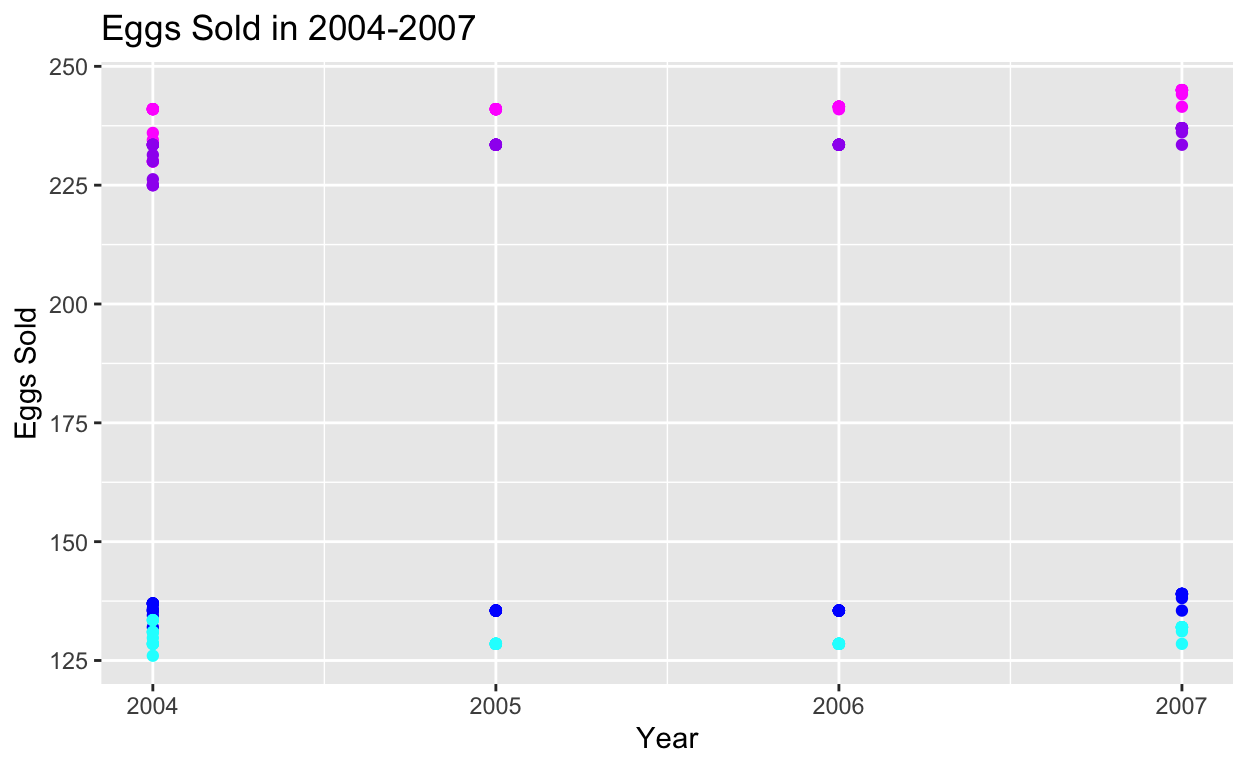
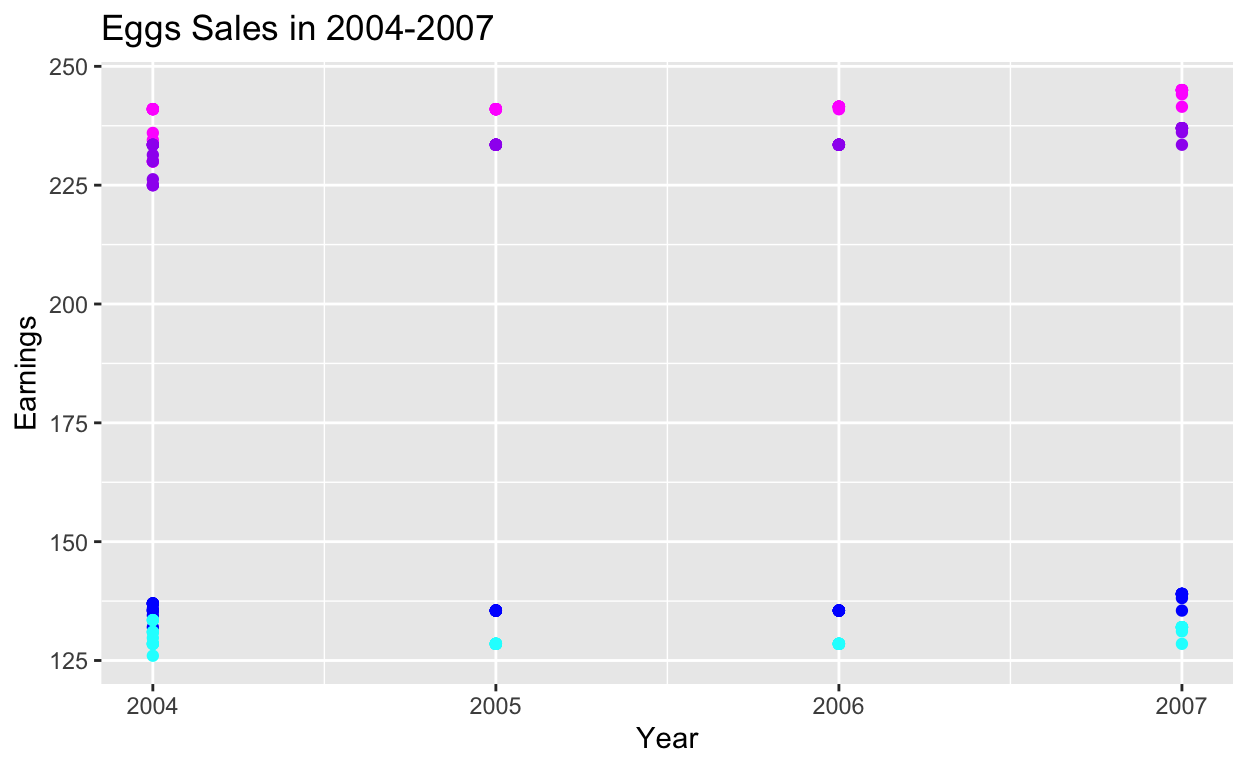
Rhys Long Complete Homework 3

Changed region(s): [[0.1562, 0.0, 0.4062, 0.0625], [0.0, 0.4062, 0.0312, 0.5938]]

diff --git a/_posts/2021-08-18-rhyslongeggs/rhyslongeggs.html b/_posts/2021-08-18-rhyslongeggs/rhyslongeggs.html
@@ -88,7 +88,7 @@ code span.wa { color: #5e5e5e; font-style: italic; } /* Warning */
   <!--radix_placeholder_meta_tags-->
   <title>Rhys_Long_Eggs</title>
 
-  <meta property="description" itemprop="description" content="This is a data set that includes records of how many cartons of eggs were sold every month in 2004-2013. I got this data from the Basic Data sets section of google classroom. This data set contains four variables"/>
+  <meta property="description" itemprop="description" content="This is a data set that includes records of how many cartons of eggs were sold every month in 2004-2013. I got this data from the Basic Data sets section of google classroom. This data set contains four variables."/>
 
 
   <!--  https://schema.org/Article -->
@@ -99,24 +99,24 @@ code span.wa { color: #5e5e5e; font-style: italic; } /* Warning */
   <!--  https://developers.facebook.com/docs/sharing/webmasters#markup -->
   <meta property="og:title" content="Rhys_Long_Eggs"/>
   <meta property="og:type" content="article"/>
-  <meta property="og:description" content="This is a data set that includes records of how many cartons of eggs were sold every month in 2004-2013. I got this data from the Basic Data sets section of google classroom. This data set contains four variables"/>
+  <meta property="og:description" content="This is a data set that includes records of how many cartons of eggs were sold every month in 2004-2013. I got this data from the Basic Data sets section of google classroom. This data set contains four variables."/>
   <meta property="og:locale" content="en_US"/>
 
   <!--  https://dev.twitter.com/cards/types/summary -->
   <meta property="twitter:card" content="summary"/>
   <meta property="twitter:title" content="Rhys_Long_Eggs"/>
-  <meta property="twitter:description" content="This is a data set that includes records of how many cartons of eggs were sold every month in 2004-2013. I got this data from the Basic Data sets section of google classroom. This data set contains four variables"/>
+  <meta property="twitter:description" content="This is a data set that includes records of how many cartons of eggs were sold every month in 2004-2013. I got this data from the Basic Data sets section of google classroom. This data set contains four variables."/>
 
   <!--/radix_placeholder_meta_tags-->
   <!--radix_placeholder_rmarkdown_metadata-->
 
   <script type="text/json" id="radix-rmarkdown-metadata">
-  {"type":"list","attributes":{"names":{"type":"character","attributes":{},"value":["title","description","author","date","output","draft"]}},"value":[{"type":"character","attributes":{},"value":["Rhys_Long_Eggs"]},{"type":"character","attributes":{},"value":["This is a data set that includes records of how many cartons of eggs were sold every month in 2004-2013. I got this data from the Basic Data sets section of google classroom. This data set contains four variables\n"]},{"type":"list","attributes":{},"value":[{"type":"list","attributes":{"names":{"type":"character","attributes":{},"value":["name"]}},"value":[{"type":"character","attributes":{},"value":["Rhys Long"]}]}]},{"type":"character","attributes":{},"value":["08-11-2021"]},{"type":"list","attributes":{"names":{"type":"character","attributes":{},"value":["distill::distill_article"]}},"value":[{"type":"list","attributes":{"names":{"type":"character","attributes":{},"value":["self_contained"]}},"value":[{"type":"logical","attributes":{},"value":[false]}]}]},{"type":"logical","attributes":{},"value":[true]}]}
+  {"type":"list","attributes":{"names":{"type":"character","attributes":{},"value":["title","description","author","date","output","draft"]}},"value":[{"type":"character","attributes":{},"value":["Rhys_Long_Eggs"]},{"type":"character","attributes":{},"value":["This is a data set that includes records of how many cartons of eggs were sold every month in 2004-2013. I got this data from the Basic Data sets section of google classroom. This data set contains four variables.\n"]},{"type":"list","attributes":{},"value":[{"type":"list","attributes":{"names":{"type":"character","attributes":{},"value":["name"]}},"value":[{"type":"character","attributes":{},"value":["Rhys Long"]}]}]},{"type":"character","attributes":{},"value":["08-11-2021"]},{"type":"list","attributes":{"names":{"type":"character","attributes":{},"value":["distill::distill_article"]}},"value":[{"type":"list","attributes":{"names":{"type":"character","attributes":{},"value":["self_contained"]}},"value":[{"type":"logical","attributes":{},"value":[false]}]}]},{"type":"logical","attributes":{},"value":[true]}]}
   </script>
   <!--/radix_placeholder_rmarkdown_metadata-->
   
   <script type="text/json" id="radix-resource-manifest">
-  {"type":"character","attributes":{},"value":["rhyslongeggs_files/figure-html5/unnamed-chunk-1-1.png","rhyslongeggs_files/figure-html5/unnamed-chunk-2-1.png"]}
+  {"type":"character","attributes":{},"value":["rhyslongeggs_files/anchor-4.2.2/anchor.min.js","rhyslongeggs_files/bowser-1.9.3/bowser.min.js","rhyslongeggs_files/distill-2.2.21/template.v2.js","rhyslongeggs_files/figure-html5/unnamed-chunk-1-1.png","rhyslongeggs_files/figure-html5/unnamed-chunk-2-1.png","rhyslongeggs_files/figure-html5/unnamed-chunk-3-1.png","rhyslongeggs_files/figure-html5/unnamed-chunk-4-1.png","rhyslongeggs_files/figure-html5/unnamed-chunk-5-1.png","rhyslongeggs_files/figure-html5/unnamed-chunk-6-1.png","rhyslongeggs_files/figure-html5/unnamed-chunk-7-1.png","rhyslongeggs_files/figure-html5/unnamed-chunk-8-1.png","rhyslongeggs_files/header-attrs-2.10/header-attrs.js","rhyslongeggs_files/jquery-1.11.3/jquery.min.js","rhyslongeggs_files/popper-2.6.0/popper.min.js","rhyslongeggs_files/tippy-6.2.7/tippy-bundle.umd.min.js","rhyslongeggs_files/tippy-6.2.7/tippy-light-border.css","rhyslongeggs_files/tippy-6.2.7/tippy.css","rhyslongeggs_files/tippy-6.2.7/tippy.umd.min.js","rhyslongeggs_files/webcomponents-2.0.0/webcomponents.js"]}
   </script>
   <!--radix_placeholder_navigation_in_header-->
   <!--/radix_placeholder_navigation_in_header-->
@@ -1455,7 +1455,7 @@ code span.wa { color: #5e5e5e; font-style: italic; } /* Warning */
 <!--radix_placeholder_front_matter-->
 
 <script id="distill-front-matter" type="text/json">
-{"title":"Rhys_Long_Eggs","description":"This is a data set that includes records of how many cartons of eggs were sold every month in 2004-2013. I got this data from the Basic Data sets section of google classroom. This data set contains four variables","authors":[{"author":"Rhys Long","authorURL":"#","affiliation":"&nbsp;","affiliationURL":"#","orcidID":""}],"publishedDate":"2021-08-11T00:00:00.000+00:00","citationText":"Long, 2021"}
+{"title":"Rhys_Long_Eggs","description":"This is a data set that includes records of how many cartons of eggs were sold every month in 2004-2013. I got this data from the Basic Data sets section of google classroom. This data set contains four variables.","authors":[{"author":"Rhys Long","authorURL":"#","affiliation":"&nbsp;","affiliationURL":"#","orcidID":""}],"publishedDate":"2021-08-11T00:00:00.000+00:00","citationText":"Long, 2021"}
 </script>
 
 <!--/radix_placeholder_front_matter-->
@@ -1468,7 +1468,7 @@ code span.wa { color: #5e5e5e; font-style: italic; } /* Warning */
 <h1>Rhys_Long_Eggs</h1>
 <!--radix_placeholder_categories-->
 <!--/radix_placeholder_categories-->
-<p><p>This is a data set that includes records of how many cartons of eggs were sold every month in 2004-2013. I got this data from the Basic Data sets section of google classroom. This data set contains four variables</p></p>
+<p><p>This is a data set that includes records of how many cartons of eggs were sold every month in 2004-2013. I got this data from the Basic Data sets section of google classroom. This data set contains four variables.</p></p>
 </div>
 
 <div class="d-byline">
@@ -1479,12 +1479,13 @@ code span.wa { color: #5e5e5e; font-style: italic; } /* Warning */
 </div>
 
 <div class="d-article">
-<p>Part 1: Full Data Set</p>
+<p>Part 1: Full Dataset</p>
 <div class="layout-chunk" data-layout="l-body">
 <div class="sourceCode">
 <pre class="sourceCode r"><code class="sourceCode r"><span class='kw'><a href='https://rdrr.io/r/base/library.html'>library</a></span><span class='op'>(</span><span class='va'><a href='https://tidyverse.tidyverse.org'>tidyverse</a></span><span class='op'>)</span>
+<span class='kw'><a href='https://rdrr.io/r/base/library.html'>library</a></span><span class='op'>(</span><span class='va'><a href='https://ggplot2.tidyverse.org'>ggplot2</a></span><span class='op'>)</span>
 <span class='va'>eggs_data</span> <span class='op'>&lt;-</span> <span class='fu'><a href='https://rdrr.io/r/utils/read.table.html'>read.csv</a></span><span class='op'>(</span>file <span class='op'>=</span> <span class='st'>"../../_data/eggs_tidy.csv"</span><span class='op'>)</span>
-<span class='fu'>as.tibble</span><span class='op'>(</span><span class='va'>eggs_data</span><span class='op'>)</span>
+<span class='fu'>tibble</span><span class='op'>(</span><span class='va'>eggs_data</span><span class='op'>)</span>
 </code></pre>
 </div>
 <pre><code># A tibble: 120 × 6
@@ -1502,18 +1503,17 @@ code span.wa { color: #5e5e5e; font-style: italic; } /* Warning */
 10 October    2004             128.        234.                   136.
 # … with 110 more rows, and 1 more variable: extra_large_dozen &lt;dbl&gt;</code></pre>
 <div class="sourceCode">
-<pre class="sourceCode r"><code class="sourceCode r"><span class='kw'><a href='https://rdrr.io/r/base/library.html'>library</a></span><span class='op'>(</span><span class='va'><a href='https://ggplot2.tidyverse.org'>ggplot2</a></span><span class='op'>)</span>
-<span class='fu'><a href='https://ggplot2.tidyverse.org/reference/ggplot.html'>ggplot</a></span><span class='op'>(</span>data <span class='op'>=</span> <span class='va'>eggs_data</span>, <span class='fu'><a href='https://ggplot2.tidyverse.org/reference/aes.html'>aes</a></span><span class='op'>(</span><span class='va'>year</span><span class='op'>)</span><span class='op'>)</span> <span class='op'>+</span>
+<pre class="sourceCode r"><code class="sourceCode r"><span class='fu'><a href='https://ggplot2.tidyverse.org/reference/ggplot.html'>ggplot</a></span><span class='op'>(</span>data <span class='op'>=</span> <span class='va'>eggs_data</span>, <span class='fu'><a href='https://ggplot2.tidyverse.org/reference/aes.html'>aes</a></span><span class='op'>(</span><span class='va'>year</span><span class='op'>)</span><span class='op'>)</span> <span class='op'>+</span>
   <span class='fu'><a href='https://ggplot2.tidyverse.org/reference/geom_point.html'>geom_point</a></span><span class='op'>(</span>mapping <span class='op'>=</span> <span class='fu'><a href='https://ggplot2.tidyverse.org/reference/aes.html'>aes</a></span><span class='op'>(</span>y<span class='op'>=</span><span class='va'>extra_large_dozen</span><span class='op'>)</span>, color <span class='op'>=</span> <span class='st'>'magenta'</span><span class='op'>)</span> <span class='op'>+</span>
   <span class='fu'><a href='https://ggplot2.tidyverse.org/reference/geom_point.html'>geom_point</a></span><span class='op'>(</span>mapping <span class='op'>=</span> <span class='fu'><a href='https://ggplot2.tidyverse.org/reference/aes.html'>aes</a></span><span class='op'>(</span>y<span class='op'>=</span><span class='va'>large_dozen</span><span class='op'>)</span>, color <span class='op'>=</span> <span class='st'>'purple'</span><span class='op'>)</span> <span class='op'>+</span>
   <span class='fu'><a href='https://ggplot2.tidyverse.org/reference/geom_point.html'>geom_point</a></span><span class='op'>(</span>mapping <span class='op'>=</span> <span class='fu'><a href='https://ggplot2.tidyverse.org/reference/aes.html'>aes</a></span><span class='op'>(</span>y<span class='op'>=</span><span class='va'>extra_large_half_dozen</span><span class='op'>)</span>, color <span class='op'>=</span> <span class='st'>'blue'</span><span class='op'>)</span> <span class='op'>+</span>
   <span class='fu'><a href='https://ggplot2.tidyverse.org/reference/geom_point.html'>geom_point</a></span><span class='op'>(</span>mapping <span class='op'>=</span> <span class='fu'><a href='https://ggplot2.tidyverse.org/reference/aes.html'>aes</a></span><span class='op'>(</span>y<span class='op'>=</span><span class='va'>large_half_dozen</span><span class='op'>)</span>, color <span class='op'>=</span> <span class='st'>'cyan'</span><span class='op'>)</span> <span class='op'>+</span>
-  <span class='fu'><a href='https://ggplot2.tidyverse.org/reference/labs.html'>labs</a></span><span class='op'>(</span>title<span class='op'>=</span><span class='st'>"Eggs Sold in 2004-2013"</span>, y<span class='op'>=</span><span class='st'>"Eggs Sold"</span>, x<span class='op'>=</span><span class='st'>"Year"</span><span class='op'>)</span>
+  <span class='fu'><a href='https://ggplot2.tidyverse.org/reference/labs.html'>labs</a></span><span class='op'>(</span>title<span class='op'>=</span><span class='st'>"Eggs Sales in 2004-2013"</span>, y<span class='op'>=</span><span class='st'>"Eggs Sold"</span>, x<span class='op'>=</span><span class='st'>"Year"</span><span class='op'>)</span>
 </code></pre>
 </div>
 <p><img src="rhyslongeggs_files/figure-html5/unnamed-chunk-1-1.png" width="624" /></p>
 </div>
-<p>Part 2: Using Filter And Summarize To Show How Sales Changed Over Time</p>
+<p>Part 2: Using Filter And Summarize</p>
 <div class="layout-chunk" data-layout="l-body">
 <div class="sourceCode">
 <pre class="sourceCode r"><code class="sourceCode r"><span class='va'>first_third</span> <span class='op'>&lt;-</span> <span class='fu'><a href='https://rdrr.io/r/stats/filter.html'>filter</a></span><span class='op'>(</span><span class='va'>eggs_data</span>, <span class='va'>year</span> <span class='op'>&lt;=</span> <span class='fl'>2007</span><span class='op'>)</span>
@@ -1522,7 +1522,7 @@ code span.wa { color: #5e5e5e; font-style: italic; } /* Warning */
   <span class='fu'><a href='https://ggplot2.tidyverse.org/reference/geom_point.html'>geom_point</a></span><span class='op'>(</span>mapping <span class='op'>=</span> <span class='fu'><a href='https://ggplot2.tidyverse.org/reference/aes.html'>aes</a></span><span class='op'>(</span>y<span class='op'>=</span><span class='va'>large_dozen</span><span class='op'>)</span>, color <span class='op'>=</span> <span class='st'>'purple'</span><span class='op'>)</span> <span class='op'>+</span>
   <span class='fu'><a href='https://ggplot2.tidyverse.org/reference/geom_point.html'>geom_point</a></span><span class='op'>(</span>mapping <span class='op'>=</span> <span class='fu'><a href='https://ggplot2.tidyverse.org/reference/aes.html'>aes</a></span><span class='op'>(</span>y<span class='op'>=</span><span class='va'>extra_large_half_dozen</span><span class='op'>)</span>, color <span class='op'>=</span> <span class='st'>'blue'</span><span class='op'>)</span> <span class='op'>+</span>
   <span class='fu'><a href='https://ggplot2.tidyverse.org/reference/geom_point.html'>geom_point</a></span><span class='op'>(</span>mapping <span class='op'>=</span> <span class='fu'><a href='https://ggplot2.tidyverse.org/reference/aes.html'>aes</a></span><span class='op'>(</span>y<span class='op'>=</span><span class='va'>large_half_dozen</span><span class='op'>)</span>, color <span class='op'>=</span> <span class='st'>'cyan'</span><span class='op'>)</span> <span class='op'>+</span>
-  <span class='fu'><a href='https://ggplot2.tidyverse.org/reference/labs.html'>labs</a></span><span class='op'>(</span>title<span class='op'>=</span><span class='st'>"Eggs Sold in 2004-2007"</span>, y<span class='op'>=</span><span class='st'>"Eggs Sold"</span>, x<span class='op'>=</span><span class='st'>"Year"</span><span class='op'>)</span>
+  <span class='fu'><a href='https://ggplot2.tidyverse.org/reference/labs.html'>labs</a></span><span class='op'>(</span>title<span class='op'>=</span><span class='st'>"Eggs Sales in 2004-2007"</span>, y<span class='op'>=</span><span class='st'>"Earnings"</span>, x<span class='op'>=</span><span class='st'>"Year"</span><span class='op'>)</span>
 </code></pre>
 </div>
 <img src="rhyslongeggs_files/figure-html5/unnamed-chunk-2-1.png" width="624" />
@@ -1559,7 +1559,238 @@ code span.wa { color: #5e5e5e; font-style: italic; } /* Warning */
   median(large_half_dozen) mean(large_half_dozen)
 1                    128.5               129.7266</code></pre>
 </div>
-<div class="sourceCode" id="cb6"><pre class="sourceCode r distill-force-highlighting-css"><code class="sourceCode r"></code></pre></div>
+<div class="layout-chunk" data-layout="l-body">
+<div class="sourceCode">
+<pre class="sourceCode r"><code class="sourceCode r"><span class='va'>middle_third</span> <span class='op'>&lt;-</span> <span class='fu'><a href='https://rdrr.io/r/stats/filter.html'>filter</a></span><span class='op'>(</span><span class='va'>eggs_data</span>, <span class='va'>year</span> <span class='op'>&gt;=</span> <span class='fl'>2007</span> <span class='op'>&amp;</span> <span class='va'>year</span> <span class='op'>&lt;=</span><span class='fl'>2010</span><span class='op'>)</span>
+<span class='fu'><a href='https://ggplot2.tidyverse.org/reference/ggplot.html'>ggplot</a></span><span class='op'>(</span>data <span class='op'>=</span> <span class='va'>middle_third</span>, <span class='fu'><a href='https://ggplot2.tidyverse.org/reference/aes.html'>aes</a></span><span class='op'>(</span><span class='va'>year</span><span class='op'>)</span><span class='op'>)</span> <span class='op'>+</span>
+  <span class='fu'><a href='https://ggplot2.tidyverse.org/reference/geom_point.html'>geom_point</a></span><span class='op'>(</span>mapping <span class='op'>=</span> <span class='fu'><a href='https://ggplot2.tidyverse.org/reference/aes.html'>aes</a></span><span class='op'>(</span>y<span class='op'>=</span><span class='va'>extra_large_dozen</span><span class='op'>)</span>, color <span class='op'>=</span> <span class='st'>'magenta'</span><span class='op'>)</span> <span class='op'>+</span>
+  <span class='fu'><a href='https://ggplot2.tidyverse.org/reference/geom_point.html'>geom_point</a></span><span class='op'>(</span>mapping <span class='op'>=</span> <span class='fu'><a href='https://ggplot2.tidyverse.org/reference/aes.html'>aes</a></span><span class='op'>(</span>y<span class='op'>=</span><span class='va'>large_dozen</span><span class='op'>)</span>, color <span class='op'>=</span> <span class='st'>'purple'</span><span class='op'>)</span> <span class='op'>+</span>
+  <span class='fu'><a href='https://ggplot2.tidyverse.org/reference/geom_point.html'>geom_point</a></span><span class='op'>(</span>mapping <span class='op'>=</span> <span class='fu'><a href='https://ggplot2.tidyverse.org/reference/aes.html'>aes</a></span><span class='op'>(</span>y<span class='op'>=</span><span class='va'>extra_large_half_dozen</span><span class='op'>)</span>, color <span class='op'>=</span> <span class='st'>'blue'</span><span class='op'>)</span> <span class='op'>+</span>
+  <span class='fu'><a href='https://ggplot2.tidyverse.org/reference/geom_point.html'>geom_point</a></span><span class='op'>(</span>mapping <span class='op'>=</span> <span class='fu'><a href='https://ggplot2.tidyverse.org/reference/aes.html'>aes</a></span><span class='op'>(</span>y<span class='op'>=</span><span class='va'>large_half_dozen</span><span class='op'>)</span>, color <span class='op'>=</span> <span class='st'>'cyan'</span><span class='op'>)</span> <span class='op'>+</span>
+  <span class='fu'><a href='https://ggplot2.tidyverse.org/reference/labs.html'>labs</a></span><span class='op'>(</span>title<span class='op'>=</span><span class='st'>"Eggs Sales in 2007-2010"</span>, y<span class='op'>=</span><span class='st'>"Earnings"</span>, x<span class='op'>=</span><span class='st'>"Year"</span><span class='op'>)</span>
+</code></pre>
+</div>
+<img src="rhyslongeggs_files/figure-html5/unnamed-chunk-3-1.png" width="624" />
+<div class="sourceCode">
+<pre class="sourceCode r"><code class="sourceCode r"><span class='fu'>summarize</span><span class='op'>(</span><span class='va'>middle_third</span>, <span class='fu'><a href='https://rdrr.io/r/base/Extremes.html'>max</a></span><span class='op'>(</span><span class='va'>extra_large_dozen</span><span class='op'>)</span>, <span class='fu'><a href='https://rdrr.io/r/base/Extremes.html'>min</a></span><span class='op'>(</span><span class='va'>extra_large_dozen</span><span class='op'>)</span>, <span class='fu'><a href='https://rdrr.io/r/stats/median.html'>median</a></span><span class='op'>(</span><span class='va'>extra_large_dozen</span><span class='op'>)</span>, <span class='fu'><a href='https://rdrr.io/r/base/mean.html'>mean</a></span><span class='op'>(</span><span class='va'>extra_large_dozen</span><span class='op'>)</span><span class='op'>)</span>
+</code></pre>
+</div>
+<pre><code>  max(extra_large_dozen) min(extra_large_dozen)
+1                  285.5                  241.5
+  median(extra_large_dozen) mean(extra_large_dozen)
+1                     285.5                271.0651</code></pre>
+<div class="sourceCode">
+<pre class="sourceCode r"><code class="sourceCode r"><span class='fu'>summarize</span><span class='op'>(</span><span class='va'>middle_third</span>, <span class='fu'><a href='https://rdrr.io/r/base/Extremes.html'>max</a></span><span class='op'>(</span><span class='va'>large_dozen</span><span class='op'>)</span>, <span class='fu'><a href='https://rdrr.io/r/base/Extremes.html'>min</a></span><span class='op'>(</span><span class='va'>large_dozen</span><span class='op'>)</span>, <span class='fu'><a href='https://rdrr.io/r/stats/median.html'>median</a></span><span class='op'>(</span><span class='va'>large_dozen</span><span class='op'>)</span>, <span class='fu'><a href='https://rdrr.io/r/base/mean.html'>mean</a></span><span class='op'>(</span><span class='va'>large_dozen</span><span class='op'>)</span><span class='op'>)</span>
+</code></pre>
+</div>
+<pre><code>  max(large_dozen) min(large_dozen) median(large_dozen)
+1            277.5            233.5                 268
+  mean(large_dozen)
+1          260.1797</code></pre>
+<div class="sourceCode">
+<pre class="sourceCode r"><code class="sourceCode r"><span class='fu'>summarize</span><span class='op'>(</span><span class='va'>middle_third</span>, <span class='fu'><a href='https://rdrr.io/r/base/Extremes.html'>max</a></span><span class='op'>(</span><span class='va'>extra_large_half_dozen</span><span class='op'>)</span>, <span class='fu'><a href='https://rdrr.io/r/base/Extremes.html'>min</a></span><span class='op'>(</span><span class='va'>extra_large_half_dozen</span><span class='op'>)</span>, <span class='fu'><a href='https://rdrr.io/r/stats/median.html'>median</a></span><span class='op'>(</span><span class='va'>extra_large_half_dozen</span><span class='op'>)</span>, <span class='fu'><a href='https://rdrr.io/r/base/mean.html'>mean</a></span><span class='op'>(</span><span class='va'>extra_large_half_dozen</span><span class='op'>)</span><span class='op'>)</span>
+</code></pre>
+</div>
+<pre><code>  max(extra_large_half_dozen) min(extra_large_half_dozen)
+1                       185.5                       135.5
+  median(extra_large_half_dozen) mean(extra_large_half_dozen)
+1                          185.5                     168.9401</code></pre>
+<div class="sourceCode">
+<pre class="sourceCode r"><code class="sourceCode r"><span class='fu'>summarize</span><span class='op'>(</span><span class='va'>middle_third</span>, <span class='fu'><a href='https://rdrr.io/r/base/Extremes.html'>max</a></span><span class='op'>(</span><span class='va'>large_half_dozen</span><span class='op'>)</span>, <span class='fu'><a href='https://rdrr.io/r/base/Extremes.html'>min</a></span><span class='op'>(</span><span class='va'>large_half_dozen</span><span class='op'>)</span>, <span class='fu'><a href='https://rdrr.io/r/stats/median.html'>median</a></span><span class='op'>(</span><span class='va'>large_half_dozen</span><span class='op'>)</span>, <span class='fu'><a href='https://rdrr.io/r/base/mean.html'>mean</a></span><span class='op'>(</span><span class='va'>large_half_dozen</span><span class='op'>)</span><span class='op'>)</span>
+</code></pre>
+</div>
+<pre><code>  max(large_half_dozen) min(large_half_dozen)
+1                 174.5                 128.5
+  median(large_half_dozen) mean(large_half_dozen)
+1                    174.5               159.3568</code></pre>
+</div>
+<div class="layout-chunk" data-layout="l-body">
+<div class="sourceCode">
+<pre class="sourceCode r"><code class="sourceCode r"><span class='va'>final_third</span> <span class='op'>&lt;-</span> <span class='fu'><a href='https://rdrr.io/r/stats/filter.html'>filter</a></span><span class='op'>(</span><span class='va'>eggs_data</span>, <span class='va'>year</span> <span class='op'>&gt;=</span><span class='fl'>2010</span><span class='op'>)</span>
+<span class='fu'><a href='https://ggplot2.tidyverse.org/reference/ggplot.html'>ggplot</a></span><span class='op'>(</span>data <span class='op'>=</span> <span class='va'>final_third</span>, <span class='fu'><a href='https://ggplot2.tidyverse.org/reference/aes.html'>aes</a></span><span class='op'>(</span><span class='va'>year</span><span class='op'>)</span><span class='op'>)</span> <span class='op'>+</span>
+  <span class='fu'><a href='https://ggplot2.tidyverse.org/reference/geom_point.html'>geom_point</a></span><span class='op'>(</span>mapping <span class='op'>=</span> <span class='fu'><a href='https://ggplot2.tidyverse.org/reference/aes.html'>aes</a></span><span class='op'>(</span>y<span class='op'>=</span><span class='va'>extra_large_dozen</span><span class='op'>)</span>, color <span class='op'>=</span> <span class='st'>'magenta'</span><span class='op'>)</span> <span class='op'>+</span>
+  <span class='fu'><a href='https://ggplot2.tidyverse.org/reference/geom_point.html'>geom_point</a></span><span class='op'>(</span>mapping <span class='op'>=</span> <span class='fu'><a href='https://ggplot2.tidyverse.org/reference/aes.html'>aes</a></span><span class='op'>(</span>y<span class='op'>=</span><span class='va'>large_dozen</span><span class='op'>)</span>, color <span class='op'>=</span> <span class='st'>'purple'</span><span class='op'>)</span> <span class='op'>+</span>
+  <span class='fu'><a href='https://ggplot2.tidyverse.org/reference/geom_point.html'>geom_point</a></span><span class='op'>(</span>mapping <span class='op'>=</span> <span class='fu'><a href='https://ggplot2.tidyverse.org/reference/aes.html'>aes</a></span><span class='op'>(</span>y<span class='op'>=</span><span class='va'>extra_large_half_dozen</span><span class='op'>)</span>, color <span class='op'>=</span> <span class='st'>'blue'</span><span class='op'>)</span> <span class='op'>+</span>
+  <span class='fu'><a href='https://ggplot2.tidyverse.org/reference/geom_point.html'>geom_point</a></span><span class='op'>(</span>mapping <span class='op'>=</span> <span class='fu'><a href='https://ggplot2.tidyverse.org/reference/aes.html'>aes</a></span><span class='op'>(</span>y<span class='op'>=</span><span class='va'>large_half_dozen</span><span class='op'>)</span>, color <span class='op'>=</span> <span class='st'>'cyan'</span><span class='op'>)</span> <span class='op'>+</span>
+  <span class='fu'><a href='https://ggplot2.tidyverse.org/reference/labs.html'>labs</a></span><span class='op'>(</span>title<span class='op'>=</span><span class='st'>"Eggs Sales in 2010-2013"</span>, y<span class='op'>=</span><span class='st'>"Earnings"</span>, x<span class='op'>=</span><span class='st'>"Year"</span><span class='op'>)</span>
+</code></pre>
+</div>
+<img src="rhyslongeggs_files/figure-html5/unnamed-chunk-4-1.png" width="624" />
+<div class="sourceCode">
+<pre class="sourceCode r"><code class="sourceCode r"><span class='fu'>summarize</span><span class='op'>(</span><span class='va'>final_third</span>, <span class='fu'><a href='https://rdrr.io/r/base/Extremes.html'>max</a></span><span class='op'>(</span><span class='va'>extra_large_dozen</span><span class='op'>)</span>, <span class='fu'><a href='https://rdrr.io/r/base/Extremes.html'>min</a></span><span class='op'>(</span><span class='va'>extra_large_dozen</span><span class='op'>)</span>, <span class='fu'><a href='https://rdrr.io/r/stats/median.html'>median</a></span><span class='op'>(</span><span class='va'>extra_large_dozen</span><span class='op'>)</span>, <span class='fu'><a href='https://rdrr.io/r/base/mean.html'>mean</a></span><span class='op'>(</span><span class='va'>extra_large_dozen</span><span class='op'>)</span><span class='op'>)</span>
+</code></pre>
+</div>
+<pre><code>  max(extra_large_dozen) min(extra_large_dozen)
+1                    290                  285.5
+  median(extra_large_dozen) mean(extra_large_dozen)
+1                     285.5                 287.375</code></pre>
+<div class="sourceCode">
+<pre class="sourceCode r"><code class="sourceCode r"><span class='fu'>summarize</span><span class='op'>(</span><span class='va'>final_third</span>, <span class='fu'><a href='https://rdrr.io/r/base/Extremes.html'>max</a></span><span class='op'>(</span><span class='va'>large_dozen</span><span class='op'>)</span>, <span class='fu'><a href='https://rdrr.io/r/base/Extremes.html'>min</a></span><span class='op'>(</span><span class='va'>large_dozen</span><span class='op'>)</span>, <span class='fu'><a href='https://rdrr.io/r/stats/median.html'>median</a></span><span class='op'>(</span><span class='va'>large_dozen</span><span class='op'>)</span>, <span class='fu'><a href='https://rdrr.io/r/base/mean.html'>mean</a></span><span class='op'>(</span><span class='va'>large_dozen</span><span class='op'>)</span><span class='op'>)</span>
+</code></pre>
+</div>
+<pre><code>  max(large_dozen) min(large_dozen) median(large_dozen)
+1            271.5            267.5               267.5
+  mean(large_dozen)
+1          268.1042</code></pre>
+<div class="sourceCode">
+<pre class="sourceCode r"><code class="sourceCode r"><span class='fu'>summarize</span><span class='op'>(</span><span class='va'>final_third</span>, <span class='fu'><a href='https://rdrr.io/r/base/Extremes.html'>max</a></span><span class='op'>(</span><span class='va'>extra_large_half_dozen</span><span class='op'>)</span>, <span class='fu'><a href='https://rdrr.io/r/base/Extremes.html'>min</a></span><span class='op'>(</span><span class='va'>extra_large_half_dozen</span><span class='op'>)</span>, <span class='fu'><a href='https://rdrr.io/r/stats/median.html'>median</a></span><span class='op'>(</span><span class='va'>extra_large_half_dozen</span><span class='op'>)</span>, <span class='fu'><a href='https://rdrr.io/r/base/mean.html'>mean</a></span><span class='op'>(</span><span class='va'>extra_large_half_dozen</span><span class='op'>)</span><span class='op'>)</span>
+</code></pre>
+</div>
+<pre><code>  max(extra_large_half_dozen) min(extra_large_half_dozen)
+1                      188.13                       185.5
+  median(extra_large_half_dozen) mean(extra_large_half_dozen)
+1                          185.5                     186.2671</code></pre>
+<div class="sourceCode">
+<pre class="sourceCode r"><code class="sourceCode r"><span class='fu'>summarize</span><span class='op'>(</span><span class='va'>final_third</span>, <span class='fu'><a href='https://rdrr.io/r/base/Extremes.html'>max</a></span><span class='op'>(</span><span class='va'>large_half_dozen</span><span class='op'>)</span>, <span class='fu'><a href='https://rdrr.io/r/base/Extremes.html'>min</a></span><span class='op'>(</span><span class='va'>large_half_dozen</span><span class='op'>)</span>, <span class='fu'><a href='https://rdrr.io/r/stats/median.html'>median</a></span><span class='op'>(</span><span class='va'>large_half_dozen</span><span class='op'>)</span>, <span class='fu'><a href='https://rdrr.io/r/base/mean.html'>mean</a></span><span class='op'>(</span><span class='va'>large_half_dozen</span><span class='op'>)</span><span class='op'>)</span>
+</code></pre>
+</div>
+<pre><code>  max(large_half_dozen) min(large_half_dozen)
+1                   178                173.25
+  median(large_half_dozen) mean(large_half_dozen)
+1                    174.5               175.3646</code></pre>
+</div>
+<p>Part 3: Using Select, Slice, and Arrange</p>
+<div class="layout-chunk" data-layout="l-body">
+<div class="sourceCode">
+<pre class="sourceCode r"><code class="sourceCode r"><span class='va'>eggs_data</span> <span class='op'>%&gt;%</span>
+  <span class='fu'>select</span><span class='op'>(</span><span class='va'>month</span>, <span class='va'>year</span>, <span class='va'>extra_large_dozen</span><span class='op'>)</span> <span class='op'>%&gt;%</span>
+  <span class='fu'>arrange</span><span class='op'>(</span><span class='fu'>desc</span><span class='op'>(</span><span class='va'>extra_large_dozen</span><span class='op'>)</span><span class='op'>)</span> <span class='op'>%&gt;%</span>
+  <span class='fu'>slice</span><span class='op'>(</span><span class='fl'>1</span><span class='op'>:</span><span class='fl'>10</span><span class='op'>)</span>
+</code></pre>
+</div>
+<pre><code>      month year extra_large_dozen
+1  November 2012               290
+2  December 2012               290
+3   January 2013               290
+4  February 2013               290
+5     March 2013               290
+6     April 2013               290
+7       May 2013               290
+8      June 2013               290
+9      July 2013               290
+10   August 2013               290</code></pre>
+<div class="sourceCode">
+<pre class="sourceCode r"><code class="sourceCode r"><span class='fu'><a href='https://ggplot2.tidyverse.org/reference/ggplot.html'>ggplot</a></span><span class='op'>(</span>data <span class='op'>=</span> <span class='va'>eggs_data</span>, <span class='fu'><a href='https://ggplot2.tidyverse.org/reference/aes.html'>aes</a></span><span class='op'>(</span><span class='va'>year</span><span class='op'>)</span><span class='op'>)</span> <span class='op'>+</span>
+  <span class='fu'><a href='https://ggplot2.tidyverse.org/reference/geom_point.html'>geom_point</a></span><span class='op'>(</span>mapping <span class='op'>=</span> <span class='fu'><a href='https://ggplot2.tidyverse.org/reference/aes.html'>aes</a></span><span class='op'>(</span>y<span class='op'>=</span><span class='va'>extra_large_dozen</span><span class='op'>)</span>, color <span class='op'>=</span> <span class='st'>'magenta'</span><span class='op'>)</span> <span class='op'>+</span>
+  <span class='fu'><a href='https://ggplot2.tidyverse.org/reference/labs.html'>labs</a></span><span class='op'>(</span>title<span class='op'>=</span><span class='st'>"Extra Large Dozen Egg Sales in 2004-2013"</span>, y<span class='op'>=</span><span class='st'>"Earnings"</span>, x<span class='op'>=</span><span class='st'>"Year"</span><span class='op'>)</span>
+</code></pre>
+</div>
+<p><img src="rhyslongeggs_files/figure-html5/unnamed-chunk-5-1.png" width="624" /></p>
+</div>
+<div class="layout-chunk" data-layout="l-body">
+<div class="sourceCode">
+<pre class="sourceCode r"><code class="sourceCode r"><span class='va'>eggs_data</span> <span class='op'>%&gt;%</span>
+  <span class='fu'>select</span><span class='op'>(</span><span class='va'>month</span>, <span class='va'>year</span>, <span class='va'>large_dozen</span><span class='op'>)</span> <span class='op'>%&gt;%</span>
+  <span class='fu'>arrange</span><span class='op'>(</span><span class='fu'>desc</span><span class='op'>(</span><span class='va'>large_dozen</span><span class='op'>)</span><span class='op'>)</span> <span class='op'>%&gt;%</span>
+  <span class='fu'>slice</span><span class='op'>(</span><span class='fl'>1</span><span class='op'>:</span><span class='fl'>10</span><span class='op'>)</span>
+</code></pre>
+</div>
+<pre><code>       month year large_dozen
+1       June 2008       277.5
+2       July 2008       277.5
+3     August 2008       277.5
+4  September 2008       277.5
+5    October 2008       277.5
+6   November 2008       277.5
+7   December 2008       277.5
+8    January 2009       277.5
+9   February 2009       277.5
+10     March 2009       277.5</code></pre>
+<div class="sourceCode">
+<pre class="sourceCode r"><code class="sourceCode r"><span class='fu'><a href='https://ggplot2.tidyverse.org/reference/ggplot.html'>ggplot</a></span><span class='op'>(</span>data <span class='op'>=</span> <span class='va'>eggs_data</span>, <span class='fu'><a href='https://ggplot2.tidyverse.org/reference/aes.html'>aes</a></span><span class='op'>(</span><span class='va'>year</span><span class='op'>)</span><span class='op'>)</span> <span class='op'>+</span>
+  <span class='fu'><a href='https://ggplot2.tidyverse.org/reference/geom_point.html'>geom_point</a></span><span class='op'>(</span>mapping <span class='op'>=</span> <span class='fu'><a href='https://ggplot2.tidyverse.org/reference/aes.html'>aes</a></span><span class='op'>(</span>y<span class='op'>=</span><span class='va'>large_dozen</span><span class='op'>)</span>, color <span class='op'>=</span> <span class='st'>'purple'</span><span class='op'>)</span> <span class='op'>+</span>
+  <span class='fu'><a href='https://ggplot2.tidyverse.org/reference/labs.html'>labs</a></span><span class='op'>(</span>title<span class='op'>=</span><span class='st'>"Large Dozen Egg Sales in 2004-2013"</span>, y<span class='op'>=</span><span class='st'>"Earnings"</span>, x<span class='op'>=</span><span class='st'>"Year"</span><span class='op'>)</span>
+</code></pre>
+</div>
+<p><img src="rhyslongeggs_files/figure-html5/unnamed-chunk-6-1.png" width="624" /></p>
+</div>
+<div class="layout-chunk" data-layout="l-body">
+<div class="sourceCode">
+<pre class="sourceCode r"><code class="sourceCode r"><span class='va'>eggs_data</span> <span class='op'>%&gt;%</span>
+  <span class='fu'>select</span><span class='op'>(</span><span class='va'>month</span>, <span class='va'>year</span>, <span class='va'>extra_large_half_dozen</span><span class='op'>)</span> <span class='op'>%&gt;%</span>
+  <span class='fu'>arrange</span><span class='op'>(</span><span class='fu'>desc</span><span class='op'>(</span><span class='va'>extra_large_half_dozen</span><span class='op'>)</span><span class='op'>)</span> <span class='op'>%&gt;%</span>
+  <span class='fu'>slice</span><span class='op'>(</span><span class='fl'>1</span><span class='op'>:</span><span class='fl'>10</span><span class='op'>)</span>
+</code></pre>
+</div>
+<pre><code>      month year extra_large_half_dozen
+1  November 2012                 188.13
+2  December 2012                 188.13
+3   January 2013                 188.13
+4  February 2013                 188.13
+5     March 2013                 188.13
+6     April 2013                 188.13
+7       May 2013                 188.13
+8      June 2013                 188.13
+9      July 2013                 188.13
+10   August 2013                 188.13</code></pre>
+<div class="sourceCode">
+<pre class="sourceCode r"><code class="sourceCode r"><span class='fu'><a href='https://ggplot2.tidyverse.org/reference/ggplot.html'>ggplot</a></span><span class='op'>(</span>data <span class='op'>=</span> <span class='va'>eggs_data</span>, <span class='fu'><a href='https://ggplot2.tidyverse.org/reference/aes.html'>aes</a></span><span class='op'>(</span><span class='va'>year</span><span class='op'>)</span><span class='op'>)</span> <span class='op'>+</span>
+  <span class='fu'><a href='https://ggplot2.tidyverse.org/reference/geom_point.html'>geom_point</a></span><span class='op'>(</span>mapping <span class='op'>=</span> <span class='fu'><a href='https://ggplot2.tidyverse.org/reference/aes.html'>aes</a></span><span class='op'>(</span>y<span class='op'>=</span><span class='va'>extra_large_half_dozen</span><span class='op'>)</span>, color <span class='op'>=</span> <span class='st'>'blue'</span><span class='op'>)</span> <span class='op'>+</span>
+  <span class='fu'><a href='https://ggplot2.tidyverse.org/reference/labs.html'>labs</a></span><span class='op'>(</span>title<span class='op'>=</span><span class='st'>"Extra Large Half Dozen Egg Sales in 2004-2013"</span>, y<span class='op'>=</span><span class='st'>"Earnings"</span>, x<span class='op'>=</span><span class='st'>"Year"</span><span class='op'>)</span>
+</code></pre>
+</div>
+<p><img src="rhyslongeggs_files/figure-html5/unnamed-chunk-7-1.png" width="624" /></p>
+</div>
+<div class="layout-chunk" data-layout="l-body">
+<div class="sourceCode">
+<pre class="sourceCode r"><code class="sourceCode r"><span class='va'>eggs_data</span> <span class='op'>%&gt;%</span>
+  <span class='fu'>select</span><span class='op'>(</span><span class='va'>month</span>, <span class='va'>year</span>, <span class='va'>large_half_dozen</span><span class='op'>)</span> <span class='op'>%&gt;%</span>
+  <span class='fu'>arrange</span><span class='op'>(</span><span class='fu'>desc</span><span class='op'>(</span><span class='va'>large_half_dozen</span><span class='op'>)</span><span class='op'>)</span> <span class='op'>%&gt;%</span>
+  <span class='fu'>slice</span><span class='op'>(</span><span class='fl'>1</span><span class='op'>:</span><span class='fl'>10</span><span class='op'>)</span>
+</code></pre>
+</div>
+<pre><code>      month year large_half_dozen
+1  November 2012              178
+2  December 2012              178
+3   January 2013              178
+4  February 2013              178
+5     March 2013              178
+6     April 2013              178
+7       May 2013              178
+8      June 2013              178
+9      July 2013              178
+10   August 2013              178</code></pre>
+<div class="sourceCode">
+<pre class="sourceCode r"><code class="sourceCode r"><span class='fu'><a href='https://ggplot2.tidyverse.org/reference/ggplot.html'>ggplot</a></span><span class='op'>(</span>data <span class='op'>=</span> <span class='va'>eggs_data</span>, <span class='fu'><a href='https://ggplot2.tidyverse.org/reference/aes.html'>aes</a></span><span class='op'>(</span><span class='va'>year</span><span class='op'>)</span><span class='op'>)</span> <span class='op'>+</span>
+  <span class='fu'><a href='https://ggplot2.tidyverse.org/reference/geom_point.html'>geom_point</a></span><span class='op'>(</span>mapping <span class='op'>=</span> <span class='fu'><a href='https://ggplot2.tidyverse.org/reference/aes.html'>aes</a></span><span class='op'>(</span>y<span class='op'>=</span><span class='va'>large_half_dozen</span><span class='op'>)</span>, color <span class='op'>=</span> <span class='st'>'cyan'</span><span class='op'>)</span> <span class='op'>+</span>
+  <span class='fu'><a href='https://ggplot2.tidyverse.org/reference/labs.html'>labs</a></span><span class='op'>(</span>title<span class='op'>=</span><span class='st'>"Large Half Dozen Egg Sales in 2004-2013"</span>, y<span class='op'>=</span><span class='st'>"Earnings"</span>, x<span class='op'>=</span><span class='st'>"Year"</span><span class='op'>)</span>
+</code></pre>
+</div>
+<p><img src="rhyslongeggs_files/figure-html5/unnamed-chunk-8-1.png" width="624" /></p>
+</div>
+<p>Part 4: Using Rename, Pivot_Longer, and Mutate</p>
+<div class="layout-chunk" data-layout="l-body">
+<div class="sourceCode">
+<pre class="sourceCode r"><code class="sourceCode r"><span class='va'>eggs_data</span> <span class='op'>%&gt;%</span>
+  <span class='fu'>rename</span><span class='op'>(</span><span class='st'>"Month"</span><span class='op'>=</span><span class='va'>month</span>, <span class='st'>"Year"</span><span class='op'>=</span><span class='va'>year</span><span class='op'>)</span> <span class='op'>%&gt;%</span>
+  <span class='fu'>pivot_longer</span><span class='op'>(</span>cols<span class='op'>=</span><span class='va'>large_half_dozen</span><span class='op'>:</span><span class='va'>extra_large_dozen</span>,
+               names_to <span class='op'>=</span> <span class='fu'><a href='https://rdrr.io/r/base/c.html'>c</a></span><span class='op'>(</span><span class='st'>"Size"</span>, <span class='st'>"Quantity"</span><span class='op'>)</span>,
+               names_sep<span class='op'>=</span><span class='st'>"arge_"</span>,
+               values_to <span class='op'>=</span> <span class='st'>"Earnings"</span><span class='op'>)</span><span class='op'>%&gt;%</span>
+  <span class='fu'>mutate</span><span class='op'>(</span>Size <span class='op'>=</span> <span class='fu'>case_when</span><span class='op'>(</span>
+    <span class='va'>Size</span> <span class='op'>==</span> <span class='st'>'l'</span><span class='op'>~</span><span class='st'>"Large"</span>,
+    <span class='va'>Size</span> <span class='op'>==</span> <span class='st'>'extra_l'</span><span class='op'>~</span> <span class='st'>"Extra Large"</span><span class='op'>)</span><span class='op'>)</span> <span class='op'>%&gt;%</span>
+  <span class='fu'>mutate</span><span class='op'>(</span>Quantity<span class='op'>=</span><span class='fu'>case_when</span><span class='op'>(</span>
+    <span class='va'>Quantity</span> <span class='op'>==</span> <span class='st'>"half_dozen"</span> <span class='op'>~</span> <span class='st'>"Half Dozen"</span>,
+    <span class='va'>Quantity</span> <span class='op'>==</span> <span class='st'>"dozen"</span> <span class='op'>~</span> <span class='st'>"Dozen"</span><span class='op'>)</span><span class='op'>)</span>
+</code></pre>
+</div>
+<pre><code># A tibble: 480 × 5
+   Month     Year Size        Quantity   Earnings
+   &lt;chr&gt;    &lt;int&gt; &lt;chr&gt;       &lt;chr&gt;         &lt;dbl&gt;
+ 1 January   2004 Large       Half Dozen     126 
+ 2 January   2004 Large       Dozen          230 
+ 3 January   2004 Extra Large Half Dozen     132 
+ 4 January   2004 Extra Large Dozen          230 
+ 5 February  2004 Large       Half Dozen     128.
+ 6 February  2004 Large       Dozen          226.
+ 7 February  2004 Extra Large Half Dozen     134.
+ 8 February  2004 Extra Large Dozen          230 
+ 9 March     2004 Large       Half Dozen     131 
+10 March     2004 Large       Dozen          225 
+# … with 470 more rows</code></pre>
+</div>
+<div class="sourceCode" id="cb19"><pre class="sourceCode r distill-force-highlighting-css"><code class="sourceCode r"></code></pre></div>
 <!--radix_placeholder_article_footer-->
 <!--/radix_placeholder_article_footer-->
 </div>
